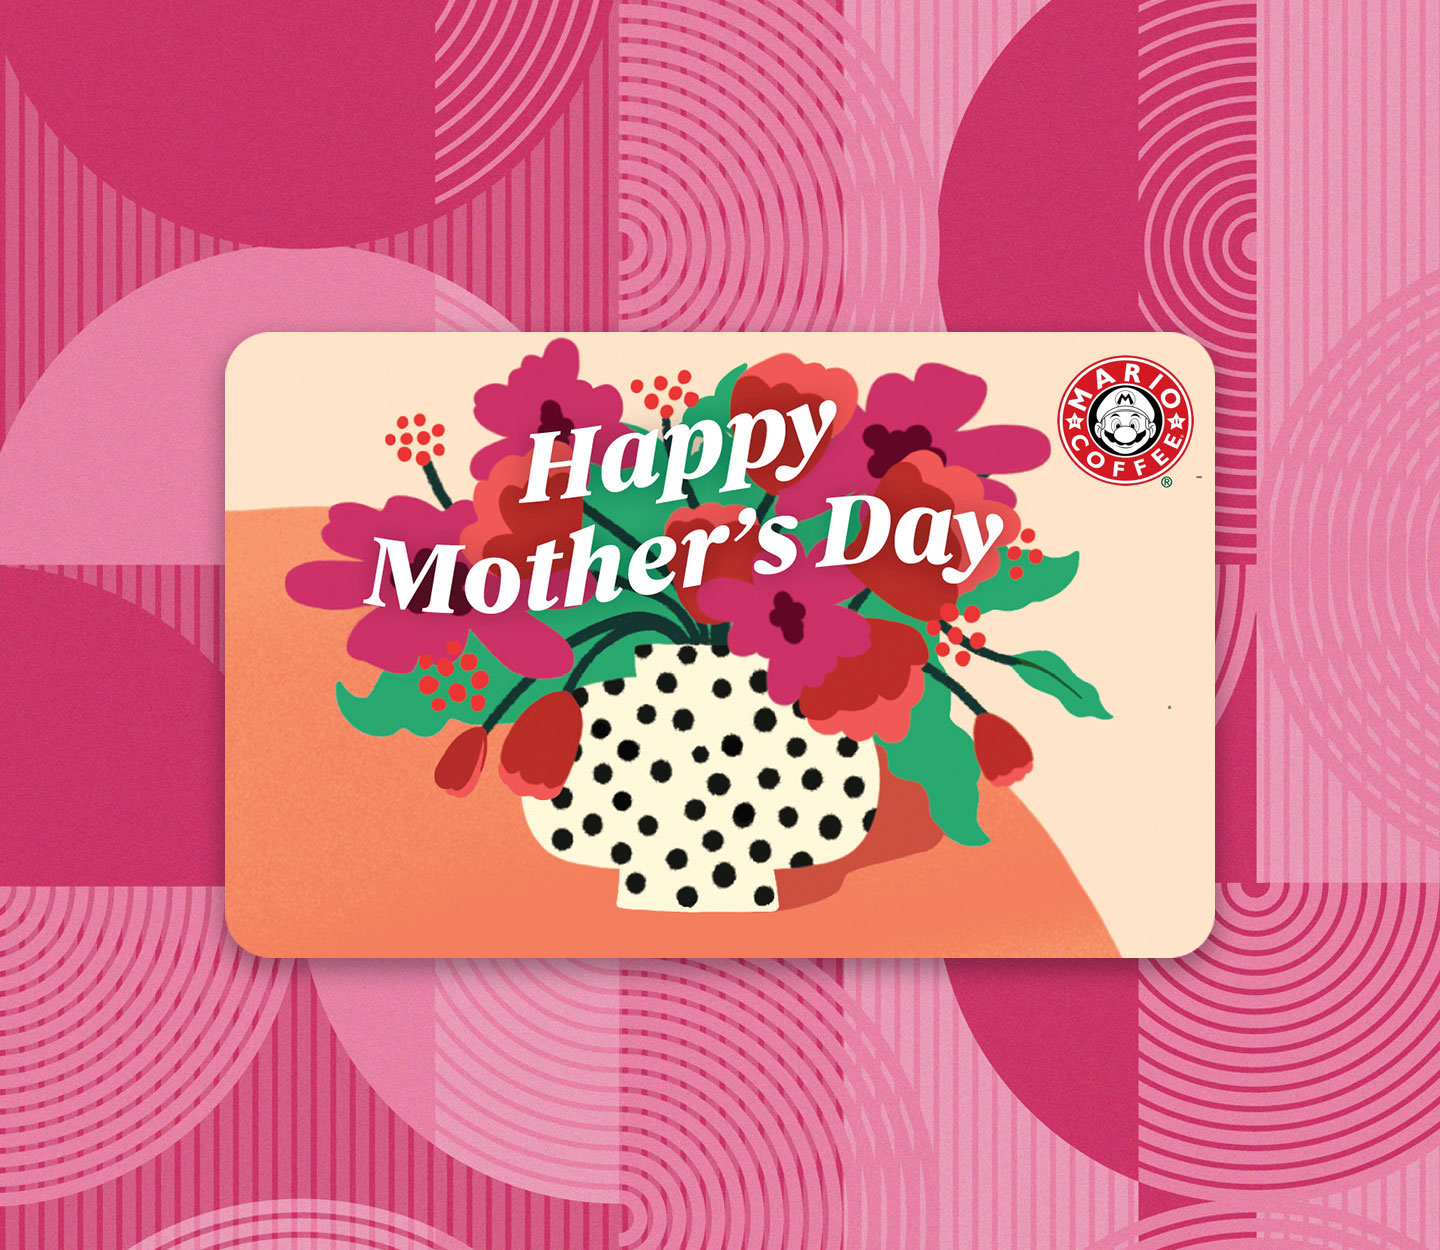
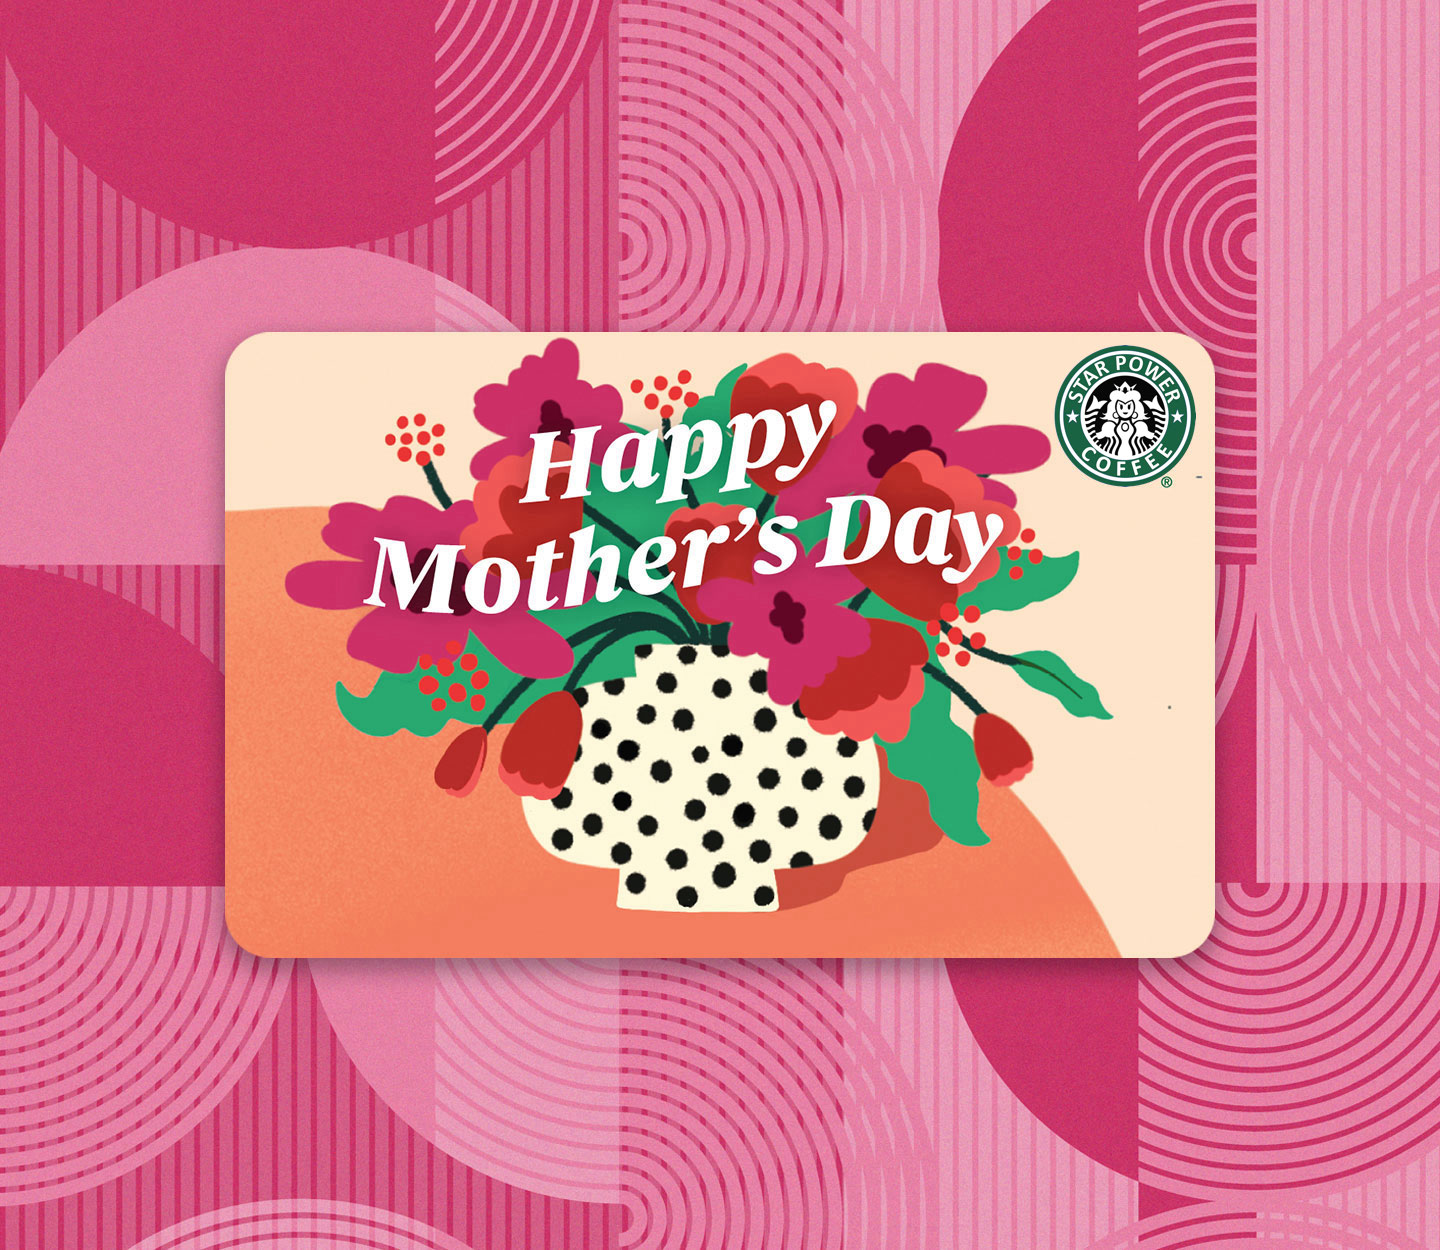
updated images

Changed region(s): [[0.7188, 0.2808, 0.8438, 0.4056]]

diff --git a/react-app/src/components/AllDrinks/index.js b/react-app/src/components/AllDrinks/index.js
@@ -78,7 +78,7 @@ function AllDrinks(){
       <div className="DrinksPage">
         <div style={{display:'flex', width:'100%', justifyContent:"center", alignItems:"center"}}
         className="allDrinksTop" >
-          <h1>Welcome to Mushroom Coffee</h1>
+          <h1>Welcome to Star Power Coffee</h1>
           <img 
           style={{width:'100px', marginLeft:'1%'}}
           src={logo} alt='logo'/>
